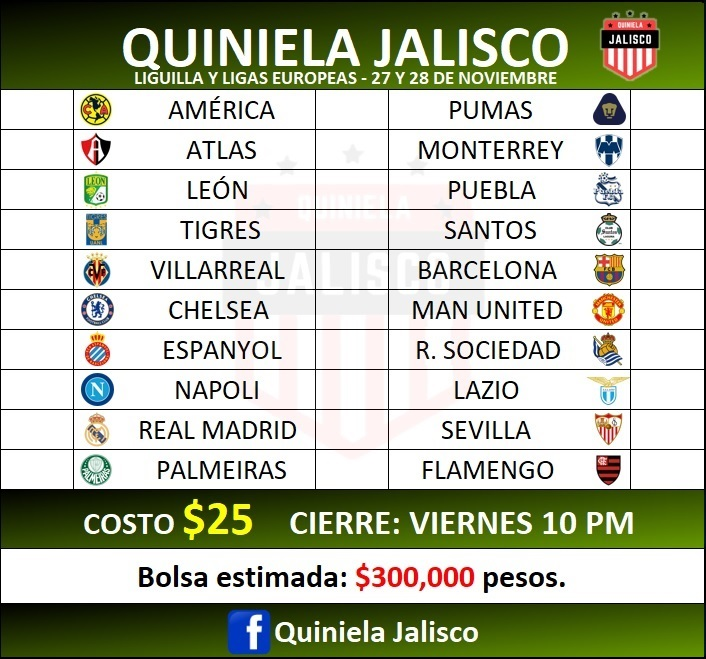
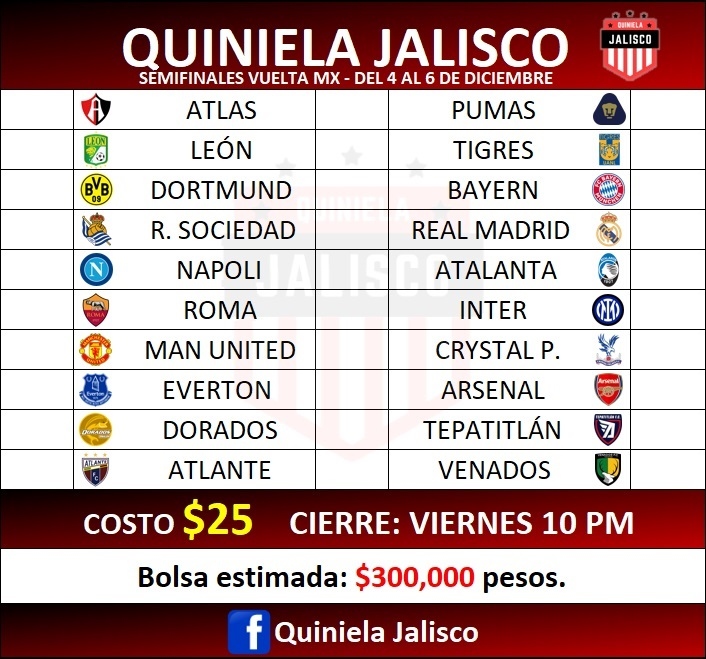
Semifinales A21

diff --git a/10/styles10.css b/10/styles10.css
@@ -89,8 +89,8 @@ h1{
     margin-top: 8%;
     border: solid 1px black;
     border-radius: 0 0 14px 14px;
-    background: -webkit-linear-gradient(0.04turn, rgb(0,0,0)  ,rgb(100,147,9) 80%);
-    background: linear-gradient(0.04turn, rgb(0,0,0)  ,rgb(100,147,9) 80%);
+    background: -webkit-linear-gradient(0.04turn, rgb(0,0,0)  ,rgb(186,0,0) 80%);
+    background: linear-gradient(0.04turn, rgb(0,0,0)  ,rgb(186,0,0) 80%);
     font-size: x-large;
 }
 
